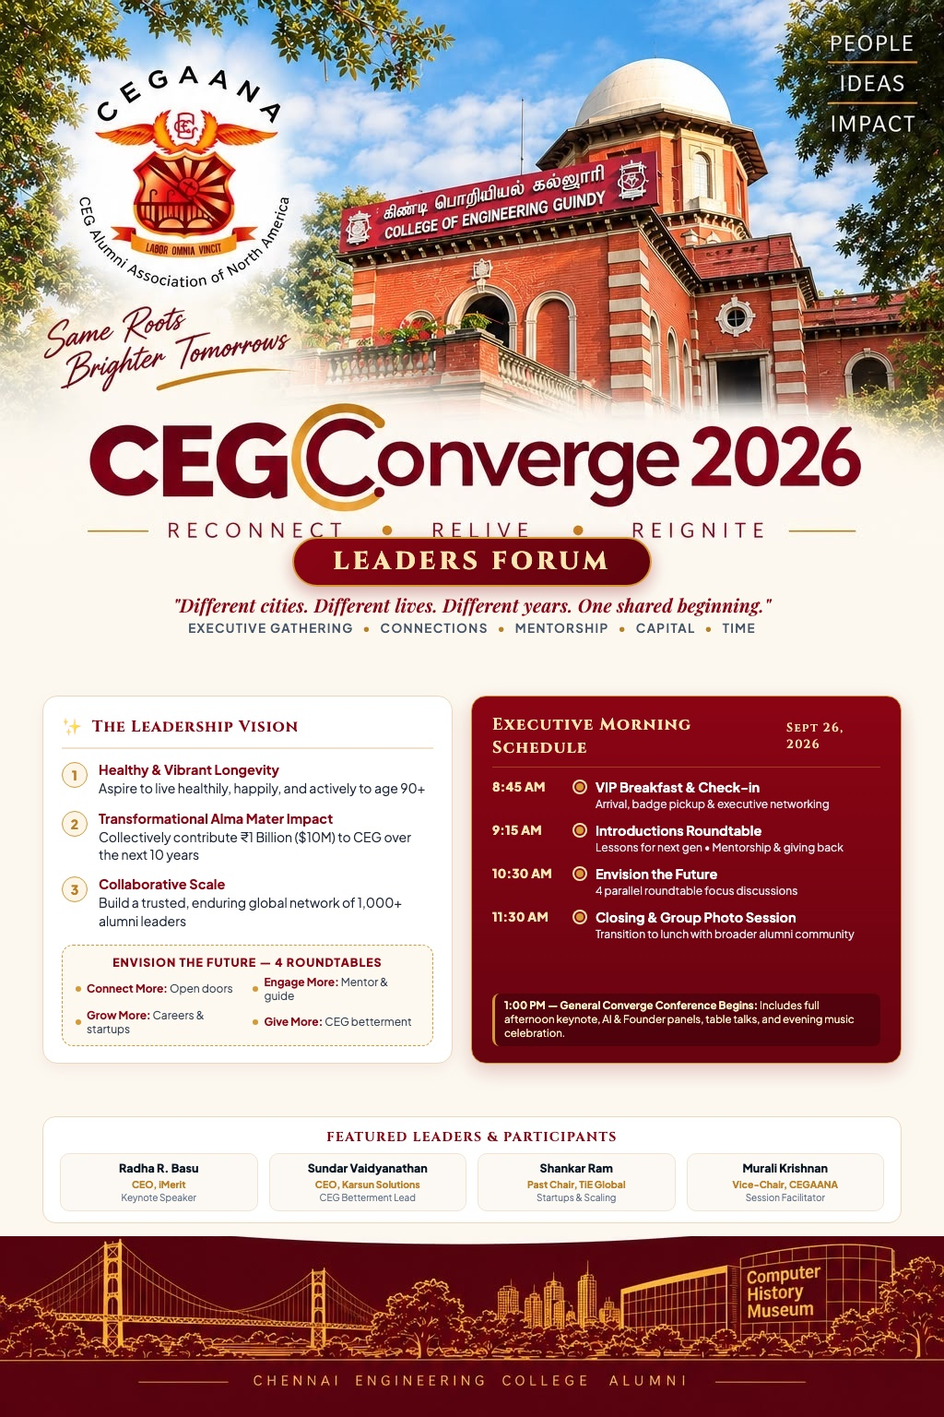
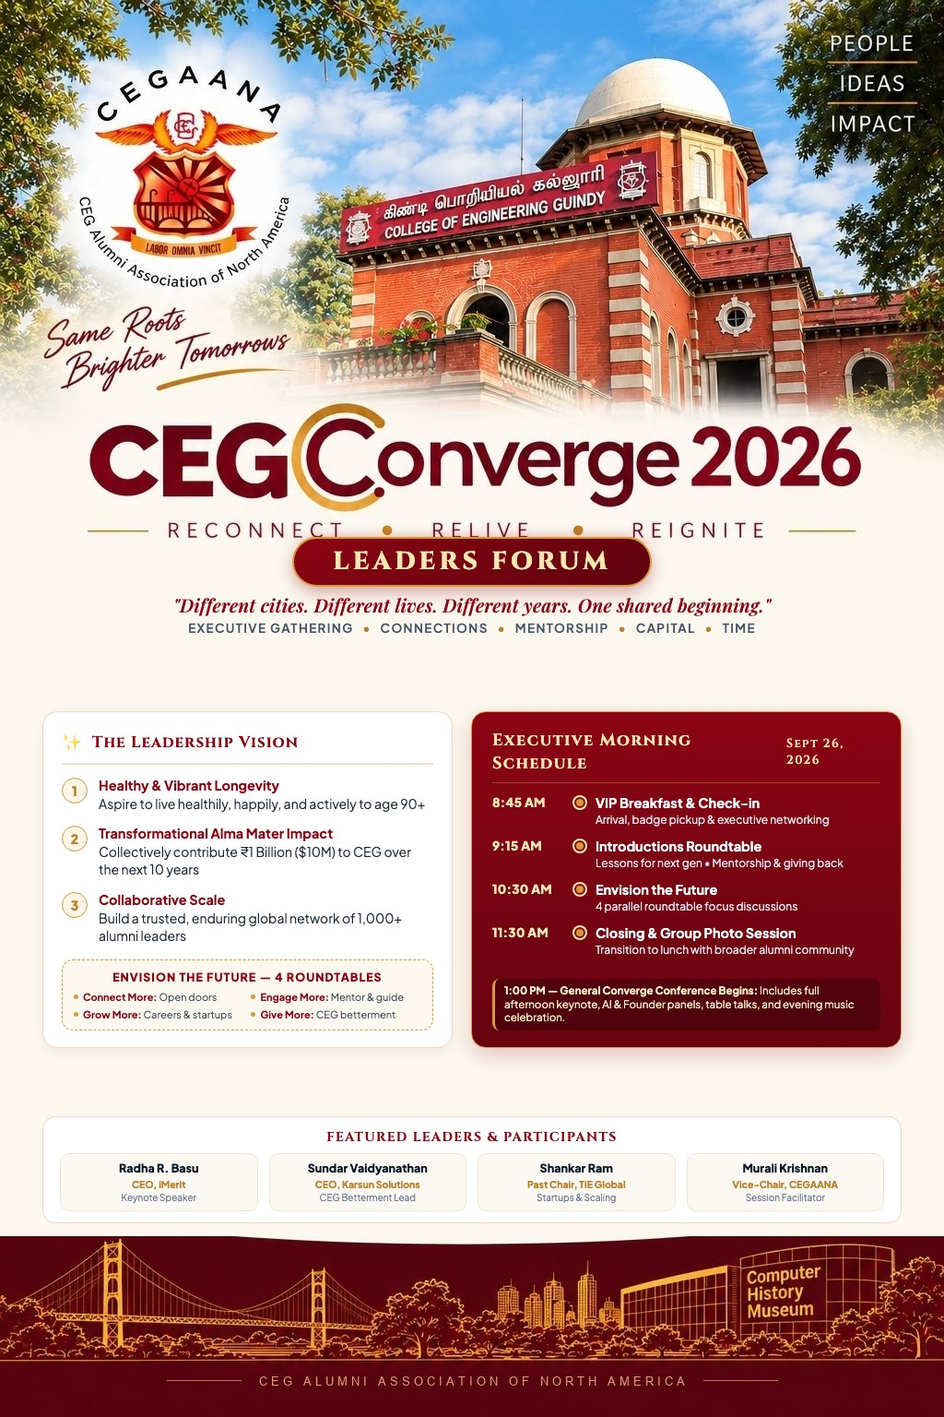
updated Donate Now and PledgeNow on many pages

diff --git a/assets/styles-GZVIp1dF.css b/assets/styles-GZVIp1dF.css
@@ -1,0 +1,1 @@
+:root{--primary-color:#c0311b;--secondary-color:#124e78;--accent:#ffe34b;--primary-dark:#eb692b;--backup-primary:#8c1d40;--backup-secondary:#002d62;--backup-accent:#f0ad4e;--bg-color:#f4f7f6;--text-color:#333;--card-bg:#fff}body{background-color:var(--bg-color);color:var(--text-color);margin:0;padding:0;font-family:Segoe UI,Roboto,Helvetica,Arial,sans-serif;line-height:1.6}header{background-color:var(--secondary-color);color:#fff;text-align:center;border-bottom:6px solid var(--primary-color);padding:1rem}header h1{letter-spacing:1px;justify-content:center;align-items:center;gap:15px;margin:0;font-size:2.8rem;display:flex}.header-logo{background:#fff;border-radius:5%;height:80px;padding:2px}header p{opacity:.9;max-width:700px;margin:10px auto 0;font-size:1.2rem}.container{z-index:10;max-width:1100px;margin:15px auto 0;padding:0 2rem 3rem;position:relative}.section-title{color:var(--secondary-color);border-bottom:3px solid var(--primary-color);margin-top:3rem;margin-bottom:25px;padding-bottom:10px;font-size:2rem}.scholarship-info{background:var(--card-bg);border-top:5px solid var(--primary-color);border-radius:10px;margin-bottom:2rem;padding:2.5rem;box-shadow:0 8px 15px #0000000d}.scholarship-info h3{color:var(--primary-color);margin-top:0;font-size:1.8rem}.stats-grid{flex-wrap:wrap;gap:20px;margin:20px 0;display:flex}.stat-box{text-align:center;background:#f8f9fa;border:1px solid #e9ecef;border-radius:8px;flex:1;min-width:200px;padding:15px 20px}.stat-box strong{color:var(--secondary-color);font-size:1.5rem;display:block}.stat-box span{color:#666;font-size:.9rem}.grid{grid-template-columns:1fr;gap:1.8rem;display:grid}@media (width>=768px){.grid{grid-template-columns:repeat(2,1fr)}}.card{background:var(--card-bg);border:1px solid #eef0f2;border-radius:10px;padding:1.5rem;transition:transform .2s,box-shadow .2s;box-shadow:0 4px 10px #0000000a}.card:hover{transform:translateY(-5px);box-shadow:0 8px 20px #00000014}.card h4{color:var(--secondary-color);border-bottom:1px solid #eee;margin-top:0;margin-bottom:15px;padding-bottom:10px;font-size:1.3rem}.badge{color:#fff;vertical-align:middle;text-transform:uppercase;letter-spacing:.5px;background-color:#28a745;border-radius:12px;margin-left:8px;padding:3px 8px;font-size:.75rem;display:inline-block}.tax-info{background-color:var(--secondary-color);color:#fff;text-align:center;border-radius:10px;margin-top:3rem;padding:2rem;box-shadow:0 4px 15px #002d6233}.tax-info h3{color:var(--accent);margin-top:0}footer{color:#aaa;text-align:center;background-color:#1a1a1a;margin-top:4rem;padding:2rem 0;font-size:.9rem}.btn{background-color:var(--primary-color);color:#fff;border-radius:5px;margin-top:15px;padding:10px 24px;font-weight:700;text-decoration:none;transition:background .2s;display:inline-block}.btn:hover{background-color:#701330}ul.custom-list{margin:15px 0;padding-left:0;list-style-type:none}ul.custom-list li{margin-bottom:10px;padding-left:25px;position:relative}ul.custom-list li:before{content:"✓";color:var(--primary-color);font-size:1.1em;font-weight:700;position:absolute;top:0;left:0}.batch-highlight{border-left:4px solid var(--accent);background-color:#f0ad4e1a;border-radius:0 8px 8px 0;margin-top:1.5rem;padding:1.5rem}.card-tint-1{background-color:#fff5f5}.card-tint-2{background-color:#f4f8fc}.card-tint-3{background-color:#fffbf0}.card-tint-4{background-color:#f4fcf6}.card-tint-5{background-color:#fdf5e1}.card-tint-6{background-color:#d2f7c0}.card-giving{border:1px solid #00000012;border-radius:12px;flex-direction:column;justify-content:space-between;padding:1.6rem 1.4rem;transition:transform .2s,box-shadow .2s;display:flex;box-shadow:0 4px 14px #0000000d}.card-giving:hover{transform:translateY(-3px);box-shadow:0 8px 22px #00000017}.card-giving h4{color:#111;margin-top:0;margin-bottom:.6rem;font-size:1.35rem}.card-giving p{color:#444;margin-bottom:.6rem;font-size:.95rem;line-height:1.45}.card-giving .btn{align-self:flex-start;margin-top:1rem;padding:11px 22px;font-weight:600}.btn-donate{background-color:var(--primary-color,#8b0414)!important;color:#fff!important}.btn-donate:hover{background-color:#701330!important}.btn-pledge{color:#fff!important;background-color:#2b7431!important}.btn-pledge:hover{background-color:#215926!important}.toggle-switch-container{justify-content:flex-end;align-items:center;gap:12px;margin-bottom:20px;display:flex}.toggle-label{color:#888;cursor:pointer;font-weight:700;transition:color .2s}.toggle-label.active{color:var(--primary-color)}.switch{width:50px;height:26px;display:inline-block;position:relative}.switch input{opacity:0;width:0;height:0}.slider{cursor:pointer;background-color:#ccc;transition:all .4s;position:absolute;inset:0}.slider:before{content:"";background-color:#fff;width:18px;height:18px;transition:all .4s;position:absolute;bottom:4px;left:4px}input:checked+.slider{background-color:var(--primary-color)}input:checked+.slider:before{transform:translate(24px)}.slider.round{border-radius:26px}.slider.round:before{border-radius:50%}.theme-panel{--theme-bg-start:#124e78;--theme-bg-end:#0a263d;--theme-accent:#ffe34b;--theme-border:#2a6b9a;--theme-btn-hover:#0d3b5e;--theme-simple-bg:#f4f8fc;--theme-simple-btn:#124e78}.theme-outdoor,.theme-green{--theme-bg-start:#2e7d32;--theme-bg-end:#1b5e20;--theme-accent:#ffeb3b;--theme-border:#4caf50;--theme-btn-hover:#1b5e20;--theme-simple-bg:#f4fcf6;--theme-simple-btn:#2e7d32}.theme-webinar{--theme-bg-start:#d84315;--theme-bg-end:#bf360c;--theme-accent:#ffe34b;--theme-border:#ff7043;--theme-btn-hover:#bf360c;--theme-simple-bg:#fff5f5;--theme-simple-btn:#d84315}.theme-default{--theme-bg-start:#c0311b;--theme-bg-end:#8c1d40;--theme-accent:#ffe34b;--theme-border:#eb692b;--theme-btn-hover:#8c1d40;--theme-simple-bg:#fffbf0;--theme-simple-btn:#c0311b}.card-rich{background:linear-gradient(180deg, var(--theme-bg-start,var(--secondary-color)) 0%, var(--theme-bg-end,#0a263d) 100%);border:1px solid var(--theme-border,#2a6b9a);text-align:center;box-sizing:border-box;color:#fff;border-radius:16px;flex-direction:column;align-items:center;padding:25px 20px;display:flex;position:relative;overflow:hidden;box-shadow:0 10px 40px #0003}.card-rich-grid{pointer-events:none;background-image:linear-gradient(#ffffff0d 1px,#0000 1px);background-size:100% 40px;position:absolute;inset:0}.card-rich-header{z-index:1;flex-direction:row;align-items:center;width:100%;margin-bottom:20px;display:flex}.card-rich-logo{object-fit:contain;background-color:#fff;border-radius:8px;width:45px;height:45px;margin-right:15px}.card-rich-org{color:var(--theme-accent,var(--accent));letter-spacing:3px;text-align:left;margin:0;font-size:14px;font-weight:800}.card-rich-title{z-index:1;color:#fff;margin:0 0 10px;font-size:32px;font-weight:900;line-height:1.2}.card-rich-highlight{color:var(--theme-accent,var(--accent))}.card-rich-subtitle{color:#a0b2c6;letter-spacing:1.5px;z-index:1;margin-bottom:30px;font-size:13px;font-weight:500}.card-rich-info-box{border:2px solid var(--theme-accent,var(--accent));z-index:1;background:#ffffff14;border-radius:16px;width:85%;margin-bottom:20px;padding:15px}.card-rich-info-text{color:#fff;text-transform:uppercase;margin:0 0 8px;font-size:18px;font-weight:800}.card-rich-info-sub{color:var(--theme-accent,var(--accent));text-transform:uppercase;margin:0;font-size:14px;font-weight:600}.card-rich-section-title{color:#fff;z-index:1;margin-bottom:15px;font-size:18px;font-weight:800}.card-rich-names{color:var(--theme-accent,var(--accent));z-index:1;margin:5px 0;font-size:20px;font-weight:600}.card-rich-names a{color:inherit;text-decoration:none}.card-rich-names a:hover{text-decoration:underline}.card-rich-topics{color:#e0e0e0;z-index:1;text-align:left;box-sizing:border-box;white-space:pre-line;width:100%;margin-top:20px;margin-bottom:30px;padding:0 16px;font-size:14px;line-height:1.7}.card-rich-btn{background:var(--theme-accent,var(--accent));color:var(--theme-bg-start,var(--secondary-color));z-index:1;border-radius:30px;margin-top:auto;padding:14px 40px;font-size:16px;font-weight:800;text-decoration:none;transition:transform .2s}.card-rich-btn:hover{transform:scale(1.05)}

diff --git a/converge/2026/schedule.jpg/index.html b/converge/2026/schedule.jpg/index.html
@@ -269,7 +269,7 @@
             }
         }
     </style>
-  <link rel="stylesheet" crossorigin href="/assets/styles-Bvwj-AAy.css">
+  <link rel="stylesheet" crossorigin href="/assets/styles-GZVIp1dF.css">
     <!-- Google tag (gtag.js) -->
     <script async src="https://www.googletagmanager.com/gtag/js?id=G-DGHKYLW1CN"></script>
     <script>
@@ -286,7 +286,8 @@
     <header style="background: #120406; padding: 0.75rem 1rem; text-align: center; border-bottom: 1px solid #2d0d12;">
         <a href="/" style="display: inline-flex; align-items: center; gap: 8px; text-decoration: none;">
             <img src="/cegaana_logo.jpg" alt="CEGAANA Logo" style="height: 38px; border-radius: 6px;">
-            <span style="font-family: 'Outfit', sans-serif; font-size: 1.2rem; font-weight: 700; color: #fff; letter-spacing: 0.04em;">CEGAANA</span>
+            <span
+                style="font-family: 'Outfit', sans-serif; font-size: 1.2rem; font-weight: 700; color: #fff; letter-spacing: 0.04em;">CEGAANA</span>
         </a>
     </header>
 
@@ -309,7 +310,8 @@
                     <p>Thanks for your support to Scholarships or CEG Betterment.</p>
                     <p>Give securely. Your receipt is emailed instantly.</p>
                 </div>
-                <a href="https://donate.stripe.com/7sYfZ9bqs3vY53F3BO7N60d" class="btn" style="background-color: var(--primary-color, #8b0414); color: #fff;">Donate securely</a>
+                <a href="https://donate.stripe.com/7sYfZ9bqs3vY53F3BO7N60d" class="btn"
+                    style="background-color: var(--primary-color, #8b0414); color: #fff;">Donate Now</a>
             </div>
 
             <!-- Pledge Now -->
@@ -317,9 +319,11 @@
                 <div>
                     <h4>Make a Pledge</h4>
                     <p>Commit now and pay later by check, DAF grant, or employer match.</p>
-                    <p>Great for batch gifts and if donating via Benevity with an employer match. We'll email you payment details.</p>
+                    <p>Great for batch gifts and if donating via Benevity with an employer match. We'll email you
+                        payment details.</p>
                 </div>
-                <a href="https://forms.gle/iyTi9WN9aBUjbrsW6" class="btn" style="background-color: #2b7431; color: #fff;">Fill out the pledge form</a>
+                <a href="https://forms.gle/iyTi9WN9aBUjbrsW6" class="btn"
+                    style="background-color: #2b7431; color: #fff;">Fill out the pledge form</a>
             </div>
         </div>
 
@@ -327,7 +331,8 @@
         <div class="schedule-display-card">
             <div class="schedule-header-row">
                 <h2 class="schedule-header-title">
-                    <svg viewBox="0 0 24 24" width="22" height="22" fill="none" stroke="currentColor" stroke-width="2" stroke-linecap="round" stroke-linejoin="round">
+                    <svg viewBox="0 0 24 24" width="22" height="22" fill="none" stroke="currentColor" stroke-width="2"
+                        stroke-linecap="round" stroke-linejoin="round">
                         <rect x="3" y="4" width="18" height="18" rx="2" ry="2"></rect>
                         <line x1="16" y1="2" x2="16" y2="6"></line>
                         <line x1="8" y1="2" x2="8" y2="6"></line>
@@ -336,8 +341,10 @@
                     Program & Schedule
                 </h2>
                 <div class="schedule-actions">
-                    <a href="./schedule-image.jpg" target="_blank" rel="noopener noreferrer" class="btn-view-orig" download="ceg-converge-2026-schedule.jpg">
-                        <svg viewBox="0 0 24 24" width="16" height="16" fill="none" stroke="currentColor" stroke-width="2" stroke-linecap="round" stroke-linejoin="round">
+                    <a href="./schedule-image.jpg" target="_blank" rel="noopener noreferrer" class="btn-view-orig"
+                        download="ceg-converge-2026-schedule.jpg">
+                        <svg viewBox="0 0 24 24" width="16" height="16" fill="none" stroke="currentColor"
+                            stroke-width="2" stroke-linecap="round" stroke-linejoin="round">
                             <path d="M21 15v4a2 2 0 0 1-2 2H5a2 2 0 0 1-2-2v-4"></path>
                             <polyline points="7 10 12 15 17 10"></polyline>
                             <line x1="12" y1="15" x2="12" y2="3"></line>
@@ -345,7 +352,8 @@
                         Download Image
                     </a>
                     <a href="./schedule-image.jpg" target="_blank" rel="noopener noreferrer" class="btn-view-orig">
-                        <svg viewBox="0 0 24 24" width="16" height="16" fill="none" stroke="currentColor" stroke-width="2" stroke-linecap="round" stroke-linejoin="round">
+                        <svg viewBox="0 0 24 24" width="16" height="16" fill="none" stroke="currentColor"
+                            stroke-width="2" stroke-linecap="round" stroke-linejoin="round">
                             <path d="M18 13v6a2 2 0 0 1-2 2H5a2 2 0 0 1-2-2V8a2 2 0 0 1 2-2h6"></path>
                             <polyline points="15 3 21 3 21 9"></polyline>
                             <line x1="10" y1="14" x2="21" y2="3"></line>
@@ -357,7 +365,8 @@
 
             <!-- Embedded Schedule Image -->
             <div class="schedule-img-wrap">
-                <a href="./schedule-image.jpg" target="_blank" rel="noopener noreferrer" title="Click to view full size">
+                <a href="./schedule-image.jpg" target="_blank" rel="noopener noreferrer"
+                    title="Click to view full size">
                     <img src="/schedule-image.jpg" alt="CEG Converge 2026 Event Schedule">
                 </a>
             </div>
@@ -371,10 +380,12 @@
             <p style="color: #666; font-size: 0.95rem; margin-bottom: 0.8rem;">
                 Looking for the full conference portal or event details?
             </p>
-            <a href="/converge/2026/" style="display: inline-block; color: var(--brand-primary); font-weight: 600; text-decoration: underline; margin-right: 1.5rem;">
+            <a href="/converge/2026/"
+                style="display: inline-block; color: var(--brand-primary); font-weight: 600; text-decoration: underline; margin-right: 1.5rem;">
                 &larr; Converge 2026 Event Overview
             </a>
-            <a href="/connect/" style="display: inline-block; color: var(--brand-primary); font-weight: 600; text-decoration: underline;">
+            <a href="/connect/"
+                style="display: inline-block; color: var(--brand-primary); font-weight: 600; text-decoration: underline;">
                 Attendee Connect App &rarr;
             </a>
         </div>
@@ -382,8 +393,11 @@
     </div>
 
     <footer class="page-footer">
-        <p>&copy; 2026 College of Engineering, Guindy Alumni Association of North America (CEGAANA). All Rights Reserved.</p>
-        <p style="margin-top: 6px;"><a href="/">Home</a> &bull; <a href="/converge/2026/">Converge 2026</a> &bull; <a href="/connect/">Connect</a> &bull; <a href="https://donate.stripe.com/7sYfZ9bqs3vY53F3BO7N60d" target="_blank" rel="noopener noreferrer">Donate</a></p>
+        <p>&copy; 2026 College of Engineering, Guindy Alumni Association of North America (CEGAANA). All Rights
+            Reserved.</p>
+        <p style="margin-top: 6px;"><a href="/">Home</a> &bull; <a href="/converge/2026/">Converge 2026</a> &bull; <a
+                href="/connect/">Connect</a> &bull; <a href="https://donate.stripe.com/7sYfZ9bqs3vY53F3BO7N60d"
+                target="_blank" rel="noopener noreferrer">Donate</a></p>
     </footer>
 </body>
 

diff --git a/index.html b/index.html
@@ -17,7 +17,7 @@
     <meta name="twitter:title" content="CEGAANA | Home">
     <meta name="twitter:description" content="College of Engineering, Guindy Alumni Association of North America.">
     <meta name="twitter:image" content="https://cegaana.github.io/cegaana_logo.jpg">
-  <link rel="stylesheet" crossorigin href="/assets/styles-Bvwj-AAy.css">
+  <link rel="stylesheet" crossorigin href="/assets/styles-GZVIp1dF.css">
     <!-- Google tag (gtag.js) -->
     <script async src="https://www.googletagmanager.com/gtag/js?id=G-DGHKYLW1CN"></script>
     <script>
@@ -46,20 +46,24 @@
             </div> -->
 
             <!-- Donate Now -->
-            <div class="card card-tint-5">
-                <h4>Donate Now</h4>
-                <p>Thanks for your support to Scholarships or CEG Betterment. </p>
-                <p>Give securely. Your receipt is emailed instantly.</p>
-                <a href="https://donate.stripe.com/7sYfZ9bqs3vY53F3BO7N60d" class="btn">Donate securely</a>
+            <div class="card card-giving card-tint-5">
+                <div>
+                    <h4>Donate Now</h4>
+                    <p>Thanks for your support to Scholarships or CEG Betterment.</p>
+                    <p>Give securely. Your receipt is emailed instantly.</p>
+                </div>
+                <a href="https://donate.stripe.com/7sYfZ9bqs3vY53F3BO7N60d" class="btn btn-donate">Donate Now</a>
             </div>
 
             <!-- Pledge Now -->
-            <div class="card card-tint-6">
-                <h4>Make a Pledge</h4>
-                <p>Commit now and pay later by check, DAF grant, or employer match.</p>
-                <p>Great for batch gifts and if donating via Benevity with an employer match. We'll email you payment
-                    details.</p>
-                <a href="https://forms.gle/iyTi9WN9aBUjbrsW6" class="btn">Fill out the pledge form</a>
+            <div class="card card-giving card-tint-6">
+                <div>
+                    <h4>Make a Pledge</h4>
+                    <p>Commit now and pay later by check, DAF grant, or employer match.</p>
+                    <p>Great for batch gifts and if donating via Benevity with an employer match. We'll email you
+                        payment details.</p>
+                </div>
+                <a href="https://forms.gle/iyTi9WN9aBUjbrsW6" class="btn btn-pledge">Fill out the pledge form</a>
             </div>
 
             <!-- Connect with Others -->

diff --git a/404.html b/404.html
@@ -56,7 +56,7 @@
             }
         }
     </style>
-  <link rel="stylesheet" crossorigin href="/assets/styles-Bvwj-AAy.css">
+  <link rel="stylesheet" crossorigin href="/assets/styles-GZVIp1dF.css">
     <!-- Google tag (gtag.js) -->
     <script async src="https://www.googletagmanager.com/gtag/js?id=G-DGHKYLW1CN"></script>
     <script>
@@ -90,6 +90,36 @@
                 temporarily unavailable.
             </p>
             <a href="/index.html" class="btn" style="font-size: 1.1rem; padding: 12px 30px;">Back to Home</a>
+
+            <div style="margin-top: 3.5rem; width: 100%; max-width: 760px; text-align: left;">
+                <h4
+                    style="text-align: center; color: var(--secondary-color); font-size: 1.25rem; margin-bottom: 1.25rem;">
+                    Support CEGAANA & Students</h4>
+                <div class="grid" style="grid-template-columns: repeat(auto-fit, minmax(280px, 1fr)); gap: 1.25rem;">
+                    <!-- Donate Now -->
+                    <div class="card card-giving card-tint-5">
+                        <div>
+                            <h4>Donate Now</h4>
+                            <p>Thanks for your support to Scholarships or CEG Betterment.</p>
+                            <p>Give securely. Your receipt is emailed instantly.</p>
+                        </div>
+                        <a href="https://donate.stripe.com/7sYfZ9bqs3vY53F3BO7N60d" class="btn btn-donate">Donate
+                            Now</a>
+                    </div>
+
+                    <!-- Pledge Now -->
+                    <div class="card card-giving card-tint-6">
+                        <div>
+                            <h4>Make a Pledge</h4>
+                            <p>Commit now and pay later by check, DAF grant, or employer match.</p>
+                            <p>Great for batch gifts and if donating via Benevity with an employer match. We'll email
+                                you payment details.</p>
+                        </div>
+                        <a href="https://forms.gle/iyTi9WN9aBUjbrsW6" class="btn btn-pledge">Fill out the pledge
+                            form</a>
+                    </div>
+                </div>
+            </div>
         </div>
     </div>
 

diff --git a/converge/2026/lf/thank-you.html b/converge/2026/lf/thank-you.html
@@ -30,10 +30,10 @@
     <link
         href="https://fonts.googleapis.com/css2?family=Inter:wght@400;500;600;700&family=Outfit:wght@500;600;700;800&display=swap"
         rel="stylesheet">
-  <script type="module" crossorigin src="/assets/converge_2026_lf_thank-you-DsrVrC-A.js"></script>
+  <script type="module" crossorigin src="/assets/converge_2026_lf_thank-you-Pvq6nhNM.js"></script>
   <link rel="modulepreload" crossorigin href="/assets/event-helpers-BYzUaSz3.js">
   <link rel="stylesheet" crossorigin href="/assets/event-helpers-CWbtkvHz.css">
-  <link rel="stylesheet" crossorigin href="/assets/styles-Bvwj-AAy.css">
+  <link rel="stylesheet" crossorigin href="/assets/styles-GZVIp1dF.css">
     <!-- Google tag (gtag.js) -->
     <script async src="https://www.googletagmanager.com/gtag/js?id=G-DGHKYLW1CN"></script>
     <script>

diff --git a/converge/2026/thank-you.html b/converge/2026/thank-you.html
@@ -30,10 +30,10 @@
     <link
         href="https://fonts.googleapis.com/css2?family=Inter:wght@400;500;600;700&family=Outfit:wght@500;600;700;800&display=swap"
         rel="stylesheet">
-  <script type="module" crossorigin src="/assets/converge_2026_thank-you-CmzYJfMo.js"></script>
+  <script type="module" crossorigin src="/assets/converge_2026_thank-you-IX9hIiKU.js"></script>
   <link rel="modulepreload" crossorigin href="/assets/event-helpers-BYzUaSz3.js">
   <link rel="stylesheet" crossorigin href="/assets/event-helpers-CWbtkvHz.css">
-  <link rel="stylesheet" crossorigin href="/assets/styles-Bvwj-AAy.css">
+  <link rel="stylesheet" crossorigin href="/assets/styles-GZVIp1dF.css">
     <!-- Google tag (gtag.js) -->
     <script async src="https://www.googletagmanager.com/gtag/js?id=G-DGHKYLW1CN"></script>
     <script>

diff --git a/converge/2026/index.html b/converge/2026/index.html
@@ -36,10 +36,10 @@
     <link
         href="https://fonts.googleapis.com/css2?family=Inter:wght@400;500;600;700&family=Outfit:wght@500;600;700;800&display=swap"
         rel="stylesheet">
-  <script type="module" crossorigin src="/assets/converge_2026_index-D-fW3-Q4.js"></script>
+  <script type="module" crossorigin src="/assets/converge_2026_index-D-C0khJc.js"></script>
   <link rel="modulepreload" crossorigin href="/assets/event-helpers-BYzUaSz3.js">
   <link rel="stylesheet" crossorigin href="/assets/event-helpers-CWbtkvHz.css">
-  <link rel="stylesheet" crossorigin href="/assets/styles-Bvwj-AAy.css">
+  <link rel="stylesheet" crossorigin href="/assets/styles-GZVIp1dF.css">
     <!-- Google tag (gtag.js) -->
     <script async src="https://www.googletagmanager.com/gtag/js?id=G-DGHKYLW1CN"></script>
     <script>

diff --git a/events/index.html b/events/index.html
@@ -14,7 +14,7 @@
     <meta property="og:url" content="https://cegaana.github.io/events/" id="og-url">
     <meta property="og:type" content="website">
     <meta name="twitter:card" content="summary_large_image">
-  <link rel="stylesheet" crossorigin href="/assets/styles-Bvwj-AAy.css">
+  <link rel="stylesheet" crossorigin href="/assets/styles-GZVIp1dF.css">
     <!-- Google tag (gtag.js) -->
     <script async src="https://www.googletagmanager.com/gtag/js?id=G-DGHKYLW1CN"></script>
     <script>

diff --git a/converge/2026/lf/index.html b/converge/2026/lf/index.html
@@ -35,7 +35,7 @@
         rel="stylesheet">
   <script type="module" crossorigin src="/assets/event-helpers-BYzUaSz3.js"></script>
   <link rel="stylesheet" crossorigin href="/assets/event-helpers-CWbtkvHz.css">
-  <link rel="stylesheet" crossorigin href="/assets/styles-Bvwj-AAy.css">
+  <link rel="stylesheet" crossorigin href="/assets/styles-GZVIp1dF.css">
     <!-- Google tag (gtag.js) -->
     <script async src="https://www.googletagmanager.com/gtag/js?id=G-DGHKYLW1CN"></script>
     <script>

diff --git a/thank-you.html b/thank-you.html
@@ -5,7 +5,7 @@
     <meta charset="UTF-8">
     <meta name="viewport" content="width=device-width, initial-scale=1.0">
     <title>Thank You | CEGAANA</title>
-  <link rel="stylesheet" crossorigin href="/assets/styles-Bvwj-AAy.css">
+  <link rel="stylesheet" crossorigin href="/assets/styles-GZVIp1dF.css">
     <!-- Google tag (gtag.js) -->
     <script async src="https://www.googletagmanager.com/gtag/js?id=G-DGHKYLW1CN"></script>
     <script>

diff --git a/projects/campus-betterment.html b/projects/campus-betterment.html
@@ -31,7 +31,7 @@
             box-shadow: 0 8px 15px rgba(0, 0, 0, 0.08);
         }
     </style>
-  <link rel="stylesheet" crossorigin href="/assets/styles-Bvwj-AAy.css">
+  <link rel="stylesheet" crossorigin href="/assets/styles-GZVIp1dF.css">
     <!-- Google tag (gtag.js) -->
     <script async src="https://www.googletagmanager.com/gtag/js?id=G-DGHKYLW1CN"></script>
     <script>

diff --git a/projects/industry-connections.html b/projects/industry-connections.html
@@ -31,7 +31,7 @@
             box-shadow: 0 8px 15px rgba(0, 0, 0, 0.08);
         }
     </style>
-  <link rel="stylesheet" crossorigin href="/assets/styles-Bvwj-AAy.css">
+  <link rel="stylesheet" crossorigin href="/assets/styles-GZVIp1dF.css">
     <!-- Google tag (gtag.js) -->
     <script async src="https://www.googletagmanager.com/gtag/js?id=G-DGHKYLW1CN"></script>
     <script>
